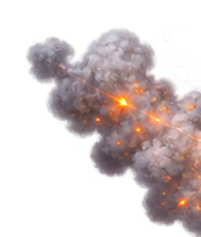
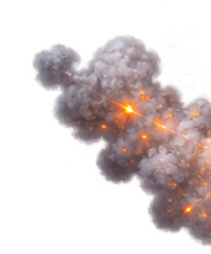
feat(mole): 대포 = 15구멍 + 포신 조준회전 + 큰 화염/포탄 (v95)
- 대포 장착 시 모든 라운드 15구멍 (우하단 구멍 제거 → 대포 자리). game.js startRound
  에서 regions/spawnPoints 필터. handleCell 은 없앤 구멍 탭이면 무시(헛방 아님).
- lane-cannon 재구현: .lc-rig(transform-origin=회전축)가 조준 회전 → 발사 → 반동 →
  원위치 순서. 포신이 그 구멍 각도로 회전 후 발사.
- 화염 크게(사용자가 첫 버전 화염 선호), 대포 +10%(0.19→0.21), 포탄 +20% + 회전(구르는 느낌).
- 반동 방향 수정 (포신 반대 = 우하단 킥백).

Claude-Session: https://claude.ai/code/session_01G4r7JhYRZRkXEYJXQp8Pk4

diff --git a/mole/js/lane-cannon.js b/mole/js/lane-cannon.js
@@ -4,17 +4,19 @@
   // 무기 스킨: 대포. lane-hammer.js 와 같은 인터페이스
   // (create({layer}) → { strike, update, isBusy, home, clear }).
   //
-  // 본체(cannon.png) = 항상 같은 스프라이트·크기. 우하단 모서리 고정(화면 밖으로 나가도 됨).
-  // 발사 = 본체 반동 + 포구 화염/연기(CSS 애니, 프레임레이트 독립) + 포탄이 그 구멍으로
-  // (CSS transition). 명중감은 game.js HitFx (impactCb = 포탄 도착 시).
+  // 순서: 포신이 그 구멍 쪽으로 조준(회전) → 포탄 발사 → 뒤로 반동 → 원위치.
+  // 본체 스프라이트·크기 고정. 우하단 낮게(다이얼러 바로 위) 앉혀 두더지 구멍을 안 가림.
+  // 명중감은 game.js HitFx (impactCb = 포탄 도착 시).
 
-  const REST_X = 0.90, REST_Y = 1.00;      // 캐리지 바닥 가운데 앵커 (보드 분수)
-  const CANNON_W = 0.17;                    // 본체 폭 (절반 크기)
-  const MUZZLE_DX = -0.075, MUZZLE_DY = -0.135; // 앵커 대비 포구 위치
-  const BARREL_DEG = -35;
-  const RECOIL = [0.010, 0.022, 0.040];
-  const KICK_SEC = 0.06, SETTLE_SEC = 0.30;
-  const BALL_MS = 95;
+  const PIVOT_X = 0.875, PIVOT_Y = 0.885;   // 회전축(캐리지 축) 보드 분수 — 없앤 우하단 구멍 자리
+  const CANNON_W = 0.21;                    // 본체 폭 (+10%)
+  const BODY_CY = -0.030;                   // 본체 중심 = 회전축보다 이만큼 위 (축이 스프라이트 하단쪽이라)
+  const MUZZLE_R = 0.66, MUZZLE_A = -150;   // 회전축에서 포구까지 (본체폭 배수, 각도 deg 화면좌표)
+  const REST_DEG = 0;                       // 스프라이트 기본 각도 (포신 이미 좌상향)
+  const AIM_MS = 80;                        // 조준 회전
+  const RECOIL = [0.010, 0.020, 0.036];     // 살짝/보통/강 (보드 분수)
+  const KICK_SEC = 0.06, SETTLE_SEC = 0.34;
+  const BALL_MS = 100;
 
   function clamp01(v) { return v < 0 ? 0 : v > 1 ? 1 : v; }
   function ease(k) { return k * k; }
@@ -24,89 +26,131 @@
     const el = document.createElement('div');
     el.className = 'lane-cannon';
     el.innerHTML =
-      '<img class="lc-smoke" alt="" src="assets/weapons/cannon-smoke.png">' +
-      '<img class="lc-flash" alt="" src="assets/weapons/cannon-flash.png">' +
       '<img class="lc-ball" alt="" src="assets/weapons/cannon-ball.png">' +
-      '<img class="lc-body" alt="" src="assets/weapons/cannon.png">';
+      '<div class="lc-rig">' +
+      '  <img class="lc-smoke" alt="" src="assets/weapons/cannon-smoke.png">' +
+      '  <img class="lc-flash" alt="" src="assets/weapons/cannon-flash.png">' +
+      '  <img class="lc-body" alt="" src="assets/weapons/cannon.png">' +
+      '</div>';
     layer.appendChild(el);
+    const rig = el.querySelector('.lc-rig');
     const body = el.querySelector('.lc-body');
     const flash = el.querySelector('.lc-flash');
     const smoke = el.querySelector('.lc-smoke');
     const ball = el.querySelector('.lc-ball');
 
+    // 리그 = 레이어 전체 크기. transform-origin = 회전축. 회전/반동은 리그가 통째로.
+    // 내부 요소는 % (레이어 = --sq 정사각) 로 배치.
+    rig.style.transformOrigin = (PIVOT_X * 100).toFixed(2) + '% ' + (PIVOT_Y * 100).toFixed(2) + '%';
     body.style.width = (CANNON_W * 100).toFixed(2) + '%';
-    const MX = REST_X + MUZZLE_DX, MY = REST_Y + MUZZLE_DY;
+    body.style.left = (PIVOT_X * 100).toFixed(2) + '%';
+    body.style.top = ((PIVOT_Y + BODY_CY) * 100).toFixed(2) + '%';
+    // 포구 위치 (회전축 기준, 미회전)
+    const mrad = MUZZLE_A * Math.PI / 180;
+    const mox = Math.cos(mrad) * MUZZLE_R * CANNON_W;
+    const moy = Math.sin(mrad) * MUZZLE_R * CANNON_W;
     [flash, smoke].forEach((im) => {
-      im.style.left = (MX * 100).toFixed(2) + '%';
-      im.style.top = (MY * 100).toFixed(2) + '%';
+      im.style.left = ((PIVOT_X + mox) * 100).toFixed(2) + '%';
+      im.style.top = ((PIVOT_Y + moy) * 100).toFixed(2) + '%';
     });
 
-    let phase = 'home', t = 0, recoilAmt = 0;
+    let phase = 'home', t = 0;
+    let aimDeg = REST_DEG, aimFrom = REST_DEG, aimTo = REST_DEG, aimT = 0;
+    let recoilAmt = 0;
     let timers = [];
     function clearTimers() { timers.forEach(clearTimeout); timers = []; }
     function after(ms, fn) { timers.push(setTimeout(fn, ms)); }
 
+    function worldMuzzle(deg) {
+      const r = deg * Math.PI / 180;
+      // 회전축 → 포구 벡터를 aim 만큼 추가 회전
+      const base = MUZZLE_A * Math.PI / 180;
+      const a = base + r;
+      return {
+        x: PIVOT_X + Math.cos(a) * MUZZLE_R * CANNON_W,
+        y: PIVOT_Y + Math.sin(a) * MUZZLE_R * CANNON_W
+      };
+    }
+
     function strike(targetXFrac, targetYFrac, onImpact) {
       const tx = (typeof targetXFrac === 'number') ? targetXFrac : 0.5;
-      const ty = (typeof targetYFrac === 'number') ? targetYFrac : 0.35;
-      recoilAmt = RECOIL[Math.floor(Math.random() * RECOIL.length)];
-      phase = 'kick'; t = 0;
-      placeBody(recoilAmt);
+      const ty = (typeof targetYFrac === 'number') ? targetYFrac : 0.3;
       clearTimers();
 
-      // 화염 (CSS 애니 재시작)
-      flash.classList.remove('is-on'); void flash.offsetWidth; flash.classList.add('is-on');
-      after(90, () => { smoke.classList.remove('is-on'); void smoke.offsetWidth; smoke.classList.add('is-on'); });
+      // 조준각 = 회전축→목표 방향 - (회전축→포구 기본 방향)
+      const want = Math.atan2(ty - PIVOT_Y, tx - PIVOT_X) * 180 / Math.PI;
+      aimFrom = aimDeg;
+      aimTo = Math.max(-42, Math.min(42, want - MUZZLE_A));
+      aimT = 0;
+      phase = 'aim'; t = 0;
+      recoilAmt = RECOIL[Math.floor(Math.random() * RECOIL.length)];
 
-      // 포탄: 포구 → 목표 (CSS transition). 각 구멍 각도대로.
-      ball.style.transition = 'none';
-      ball.style.left = (MX * 100).toFixed(2) + '%';
-      ball.style.top = (MY * 100).toFixed(2) + '%';
-      ball.style.opacity = '1';
-      ball.style.transform = 'translate(-50%,-50%) scale(1)';
-      void ball.offsetWidth;
-      ball.style.transition = 'left ' + BALL_MS + 'ms linear, top ' + BALL_MS + 'ms linear, transform ' + BALL_MS + 'ms linear';
-      ball.style.left = (tx * 100).toFixed(2) + '%';
-      ball.style.top = (ty * 100).toFixed(2) + '%';
-      ball.style.transform = 'translate(-50%,-50%) scale(0.7)';
-      after(BALL_MS, () => {
-        ball.style.opacity = '0';
-        if (onImpact) onImpact();
+      // 조준 끝나면 발사
+      after(AIM_MS, () => {
+        phase = 'kick'; t = 0;
+        flash.classList.remove('is-on'); void flash.offsetWidth; flash.classList.add('is-on');
+        after(70, () => { smoke.classList.remove('is-on'); void smoke.offsetWidth; smoke.classList.add('is-on'); });
+
+        const m = worldMuzzle(aimTo);
+        ball.style.transition = 'none';
+        ball.style.left = (m.x * 100).toFixed(2) + '%';
+        ball.style.top = (m.y * 100).toFixed(2) + '%';
+        ball.style.opacity = '1';
+        ball.style.transform = 'translate(-50%,-50%) scale(1.15) rotate(0deg)';
+        void ball.offsetWidth;
+        ball.style.transition = 'left ' + BALL_MS + 'ms cubic-bezier(.2,.5,.6,1), top ' + BALL_MS + 'ms cubic-bezier(.2,.5,.6,1), transform ' + BALL_MS + 'ms linear';
+        ball.style.left = (tx * 100).toFixed(2) + '%';
+        ball.style.top = (ty * 100).toFixed(2) + '%';
+        // 회전 = 포탄이 굴러가는 느낌
+        ball.style.transform = 'translate(-50%,-50%) scale(0.8) rotate(220deg)';
+        after(BALL_MS, () => { ball.style.opacity = '0'; if (onImpact) onImpact(); });
       });
+      paint();
     }
 
     function update(dt) {
-      if (phase === 'kick') {
+      if (phase === 'aim') {
+        aimT += dt;
+        const k = easeOut(clamp01(aimT / (AIM_MS / 1000)));
+        aimDeg = aimFrom + (aimTo - aimFrom) * k;
+      } else if (phase === 'kick') {
         t += dt;
-        placeBody(recoilAmt * ease(clamp01(t / KICK_SEC)));
         if (t >= KICK_SEC) { phase = 'settle'; t = 0; }
       } else if (phase === 'settle') {
         t += dt;
-        placeBody(recoilAmt * (1 - easeOut(clamp01(t / SETTLE_SEC))));
-        if (t >= SETTLE_SEC) { phase = 'home'; t = 0; placeBody(0); }
+        const k = easeOut(clamp01(t / SETTLE_SEC));
+        aimDeg = aimTo * (1 - k);   // 포신 원위치로
+        if (t >= SETTLE_SEC) { phase = 'home'; t = 0; aimDeg = REST_DEG; }
       }
+      paint();
     }
 
-    function placeBody(amt) {
-      const rad = (BARREL_DEG + 180) * Math.PI / 180;
-      const dx = Math.cos(rad) * amt, dy = Math.sin(rad) * amt;
-      body.style.left = ((REST_X + dx) * 100).toFixed(2) + '%';
-      body.style.top = ((REST_Y + dy) * 100).toFixed(2) + '%';
+    function paint() {
+      let amt = 0;
+      if (phase === 'kick') amt = recoilAmt * ease(clamp01(t / KICK_SEC));
+      else if (phase === 'settle') amt = recoilAmt * (1 - easeOut(clamp01(t / SETTLE_SEC)));
+      // 반동 = 조준된 포구방향의 반대 (우하단쪽으로 킥백).
+      const rdir = (MUZZLE_A + aimDeg + 180) * Math.PI / 180;
+      const dx = Math.cos(rdir) * amt, dy = Math.sin(rdir) * amt;
+      rig.style.transform =
+        'translate(' + (dx * 100).toFixed(3) + '%, ' + (dy * 100).toFixed(3) + '%) ' +
+        'rotate(' + aimDeg.toFixed(2) + 'deg)';
     }
 
-    function isBusy() { return phase === 'kick'; }
+    function isBusy() { return phase === 'aim' || phase === 'kick'; }
 
     function home() {
       clearTimers();
-      phase = 'home'; t = 0;
+      phase = 'home'; t = 0; aimT = 0;
+      aimDeg = aimFrom = aimTo = REST_DEG;
       flash.classList.remove('is-on'); smoke.classList.remove('is-on');
       ball.style.opacity = '0';
-      placeBody(0);
+      paint();
     }
 
     function clear() { clearTimers(); el.remove(); }
 
-    placeBody(0);
+    paint();
     return { strike, update, isBusy, home, clear };
   }
 

diff --git a/mole/style.css b/mole/style.css
@@ -1027,30 +1027,31 @@ body { background: var(--lm-page); }
   100% { transform: scale(1, 1); }
 }
 
-/* ---- 무기 스킨: 대포 ---- left/top/width 는 lane-cannon.js 가 넣는다 ---- */
+/* ---- 무기 스킨: 대포 ---- 위치·transform 은 lane-cannon.js 가 넣는다 ---- */
 .lane-cannon { position: absolute; inset: 0; pointer-events: none; overflow: visible; }
-.lane-cannon img { position: absolute; display: block; }
+/* .lc-rig = 레이어 전체(--sq 정사각). transform-origin=회전축. rig 가 조준회전+반동. */
+.lc-rig { position: absolute; inset: 0; will-change: transform; }
+.lc-rig img { position: absolute; display: block; transform: translate(-50%, -50%); }
 .lc-body {
-  transform: translate(-50%, -100%);  /* 앵커 = 스프라이트 바닥 가운데 (캐리지 바닥) */
+  transform: translate(-50%, -50%);
   filter: drop-shadow(0 4px 5px rgba(0, 0, 0, 0.35));
-  will-change: left, top;
   z-index: 1;
 }
 .lc-flash {
-  width: 16%; opacity: 0;
-  transform: translate(-88%, -48%) scale(0.5);
+  width: 30%; opacity: 0;
+  transform: translate(-82%, -46%) scale(0.45);
   transform-origin: right center;
-  filter: drop-shadow(0 0 8px rgba(255, 150, 50, 0.7));
+  filter: drop-shadow(0 0 12px rgba(255, 150, 50, 0.8));
   z-index: 2;
 }
-.lc-flash.is-on { animation: lc-flash 0.17s ease-out forwards; }
+.lc-flash.is-on { animation: lc-flash 0.2s ease-out forwards; }
 @keyframes lc-flash {
-  0%   { opacity: 0;   transform: translate(-88%, -48%) scale(0.5); }
-  22%  { opacity: 1;   transform: translate(-88%, -48%) scale(1.05); }
-  100% { opacity: 0;   transform: translate(-88%, -48%) scale(1.5); }
+  0%   { opacity: 0; transform: translate(-82%, -46%) scale(0.45); }
+  18%  { opacity: 1; transform: translate(-82%, -46%) scale(1.08); }
+  100% { opacity: 0; transform: translate(-82%, -46%) scale(1.7); }
 }
 .lc-smoke {
-  width: 13%; opacity: 0;
+  width: calc(var(--sq) * 0.14); opacity: 0;
   transform: translate(-85%, -46%) scale(0.6);
   transform-origin: right center;
   z-index: 0;
@@ -1062,9 +1063,10 @@ body { background: var(--lm-page); }
   100% { opacity: 0;    transform: translate(-108%, -70%) scale(1.5); }
 }
 .lc-ball {
-  width: 4.5%; opacity: 0;
+  position: absolute; display: block;
+  width: calc(var(--sq) * 0.055); opacity: 0;
   transform: translate(-50%, -50%);
-  filter: drop-shadow(0 1px 2px rgba(0, 0, 0, 0.4));
+  filter: drop-shadow(0 2px 3px rgba(0, 0, 0, 0.5));
   z-index: 3;
 }
 

diff --git a/mole/js/game.js b/mole/js/game.js
@@ -5,6 +5,7 @@
   const I18N = window.FGH.I18N;
   const START_LIVES = 3;      // 스펙 §11
   const GRID_SIZE = 4;        // 4x4 = 16칸 고정 격자
+  const CANNON_HOLE = 15;     // 대포 장착 시 없애는 구멍 (우하단 = row3·col3). 15구멍으로 플레이.
   const ROUND_SECONDS = 15;   // ⚠ 임시 테스트값 (챕터 전환 흐름 빨리 돌려보려고). 원래 30 — 출시 전 원복.
                               //    (index.html 인트로·도움말의 "각 30초" 문구는 안 건드림 — 같이 원복)
   const FINAL_ROUND = 10;     // 라운드 1~10
@@ -489,7 +490,12 @@
     MG.HitFx.warmup(); // 오디오 컨텍스트 + 타격음 파일 프리로드 (카운트다운 동안)
 
     const rng = { next: MG.RNG.mulberry32(MG.RNG.hashSeed('mole-r' + roundNum + '-' + Date.now())) };
-    const { regions, spawnPoints } = MG.GridPartition.partition({ gridSize: GRID_SIZE });
+    const weapon = localStorage.getItem('mole.weapon') === 'cannon' ? 'cannon' : 'hammer';
+    let { regions, spawnPoints } = MG.GridPartition.partition({ gridSize: GRID_SIZE });
+    if (weapon === 'cannon') {  // 대포 자리 = 우하단 구멍 하나 빼고 15구멍 (모든 라운드)
+      regions = regions.filter((r) => r.id !== CANNON_HOLE);
+      spawnPoints = spawnPoints.filter((sp) => sp.regionId !== CANNON_HOLE);
+    }
 
     const config = {
       maxConcurrentMoles: levelData.maxConcurrentMoles,
@@ -522,7 +528,6 @@
     });
 
     // 장착 무기 = 망치(기본) 또는 대포 스킨. 인터페이스 동일 (strike/update/home/clear/isBusy).
-    const weapon = localStorage.getItem('mole.weapon') === 'cannon' ? 'cannon' : 'hammer';
     const WeaponMod = (weapon === 'cannon' && MG.LaneCannon) ? MG.LaneCannon : MG.LaneHammer;
     const laneHammer = WeaponMod.create({
       layer: document.getElementById('mole-hammer-layer')
@@ -642,8 +647,9 @@
   // ---------- 구멍 버튼 입력 → 그 구멍 타격 ----------
   function handleCell(regionId) {
     if (!state || state.ended || state.introActive || state.paused) return;
+    const sp = state.spawnPoints.find((s) => s.regionId === regionId);
+    if (!sp) return; // 대포 모드에서 없앤 구멍(15) 탭 = 무시 (헛방 처리 안 함)
     const results = state.scheduler.resolveRegion(regionId);
-    const sp = state.spawnPoints[regionId];
 
     const primary = results[0] || null;
     const targetX = primary ? primary.xFrac : sp.x;

diff --git a/mole/sw.js b/mole/sw.js
@@ -3,7 +3,7 @@
 // → 파일이 바뀌면 CACHE 버전을 안 올려도 "다음 실행"에 자동 반영된다 (이전엔 캐시-우선이라
 //   sw.js 자체가 안 바뀌면 style.css/이미지 변경이 폰에 영영 안 걸렸음).
 // SHELL 목록 자체가 바뀔 때만 CACHE 를 올린다.
-const CACHE = 'mole-game-v93';
+const CACHE = 'mole-game-v95';
 
 // bgm-boss-battle.mp3(6.8MB)는 SHELL 에 안 넣는다 — BGM 은 기본 꺼짐이라 켜는 사람만 받으면 된다.
 // vendor/face_mesh/*(약 10MB, 얼굴인식)도 SHELL 제외 — 사람두더지 메이커 처음 열 때만 필요.

diff --git a/mole/index.html b/mole/index.html
@@ -84,7 +84,7 @@
       <div id="pause-veil" class="mole-board-layer" aria-hidden="true">일시정지</div>
 
       <!-- 시작 UI = 카톡풍 대화 (폰 화면 = 보드 안) -->
-      <div id="build-tag" aria-hidden="true">v93</div>
+      <div id="build-tag" aria-hidden="true">v95</div>
       <div id="board-start" class="board-panel board-start">
         <!-- 최고 스코어: 위에서 툭 내려오는 문자 알림 -->
         <div id="start-best" class="chat-sms" aria-hidden="true">

diff --git a/mole/scripts/slice-weapons.py b/mole/scripts/slice-weapons.py
@@ -65,9 +65,9 @@ def main():
     cap(crop_bbox(cn, (1112, 40, 1522, 528)), 340).save(os.path.join(OUT, 'cannon.png'))
 
     fr = Image.open(SRC_FIRE).convert('RGBA')
-    # 화염·연기만 (포구 앞부분, 포신 금속 제외). 좌표는 격자 육안 측정.
-    cap(crop_bbox(fr, (128, 3, 402, 250)), 300).save(os.path.join(OUT, 'cannon-flash.png'))
-    cap(crop_bbox(fr, (798, 42, 1006, 280)), 250).save(os.path.join(OUT, 'cannon-smoke.png'))
+    # 화염 = 불꽃+스파크+바깥 연기 넓게 (사용자가 큰 화염 선호). 포신 금속만 제외.
+    cap(crop_bbox(fr, (14, 0, 408, 300)), 460).save(os.path.join(OUT, 'cannon-flash.png'))
+    cap(crop_bbox(fr, (792, 36, 1010, 290)), 280).save(os.path.join(OUT, 'cannon-smoke.png'))
     # 포탄 = 깨끗한 검은 철구 (불꼬리 제외 — 구는 회전해도 똑같아 각도 상관없음).
     cap(crop_bbox(fr, (2, 526, 80, 602)), 96).save(os.path.join(OUT, 'cannon-ball.png'))
 
